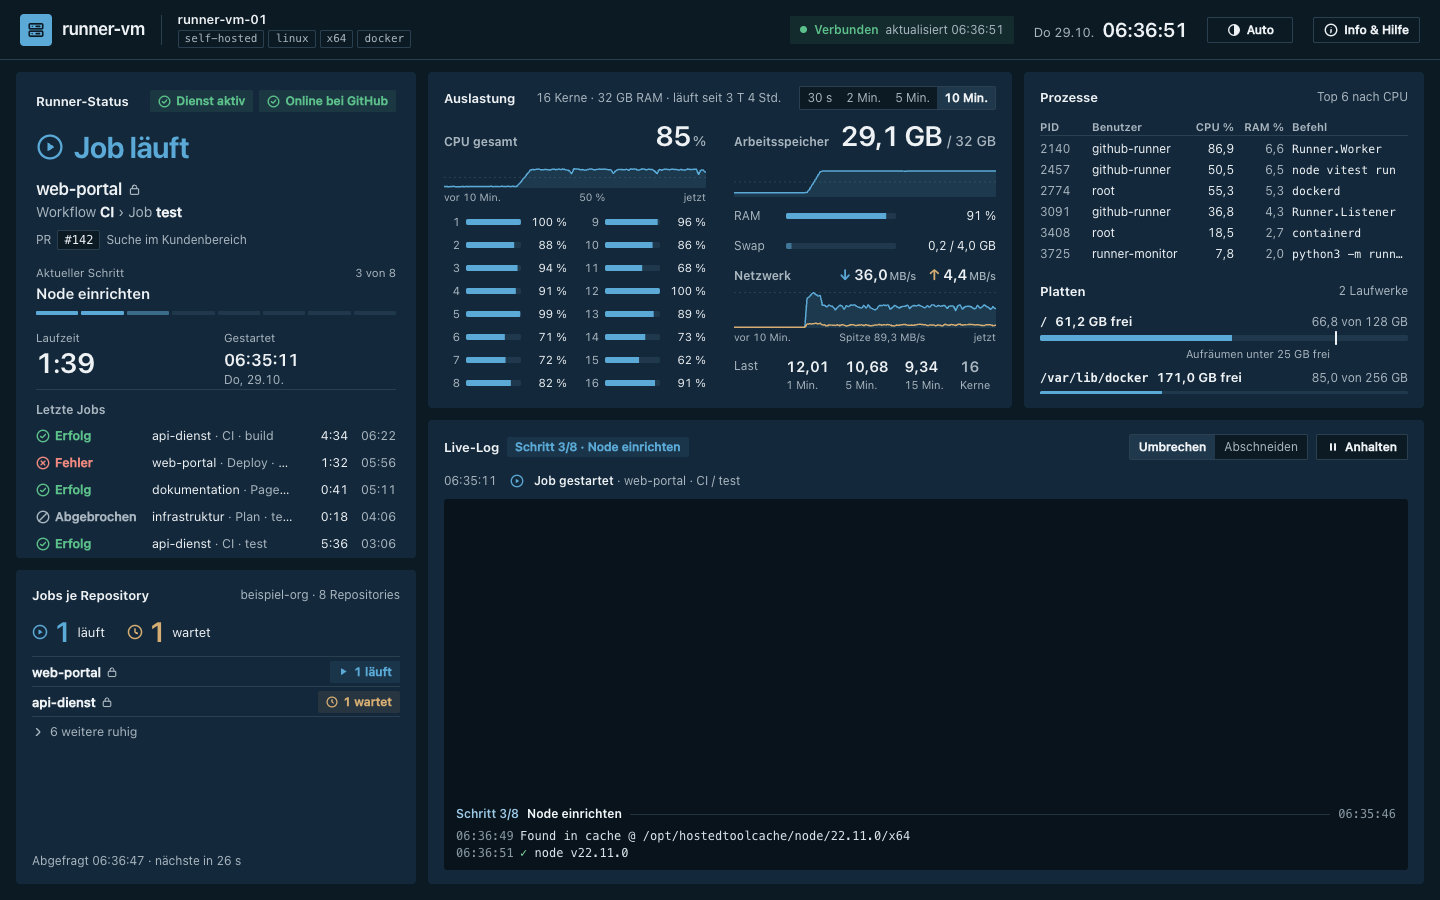
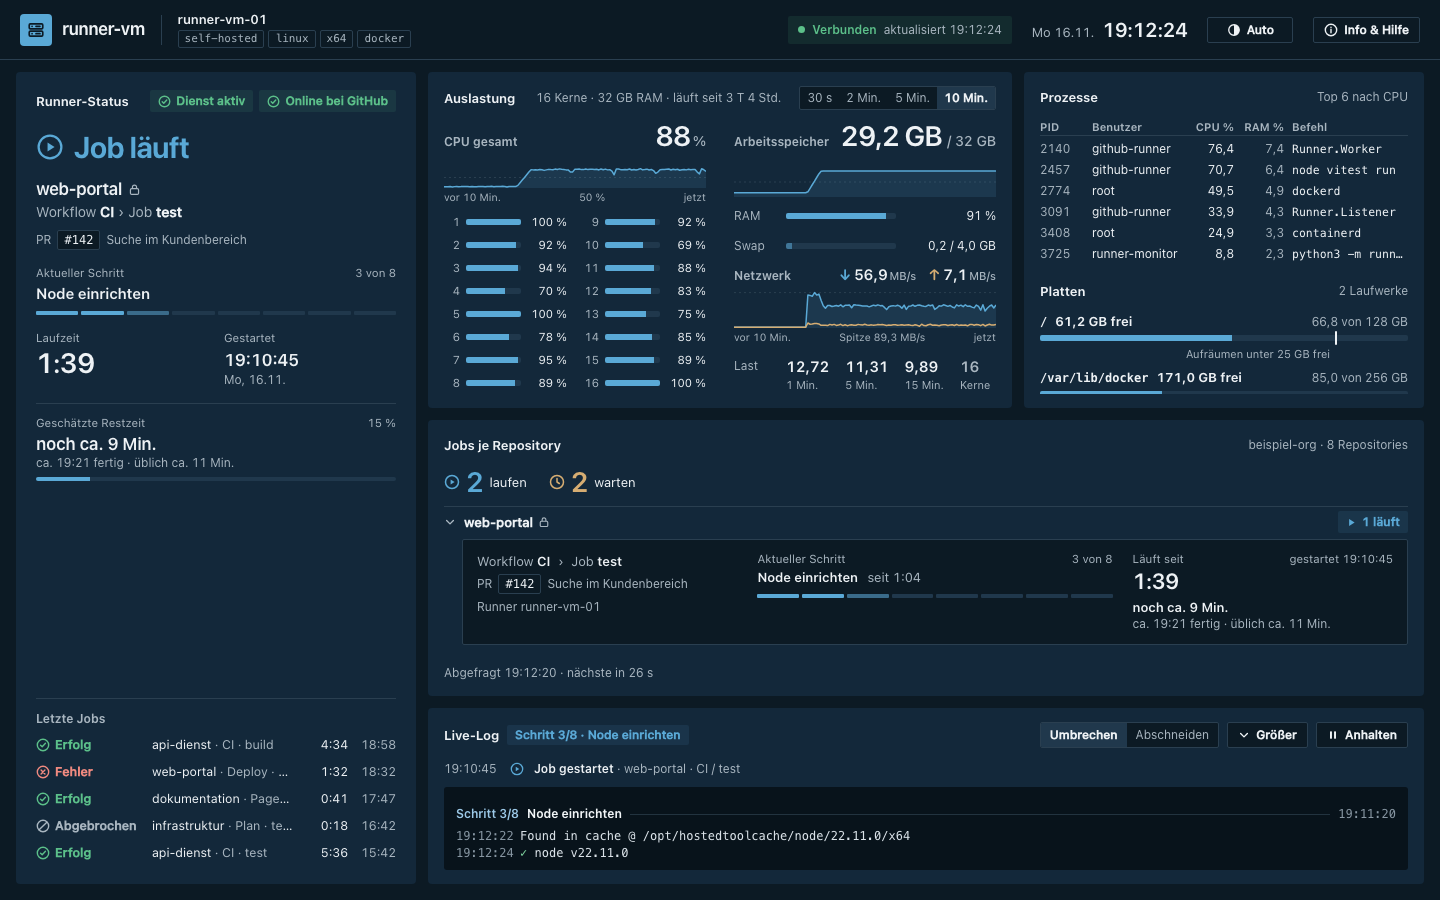
Handbuch: Bildschirmfotos 0.9.0
Alle Bilder im Layout 0.9.0 neu aufgenommen (werkzeuge/bilder.mjs, nur Demo-Daten); neu dashboard-jobs-laufend und dashboard-log-gross, in 02-dashboard.md verlinkt. Hinweis zum alten Layout aus der Release-Notiz entfernt.

diff --git a/entwickler-dashboard/daten.js b/entwickler-dashboard/daten.js
@@ -13,7 +13,7 @@
  *               Entscheidungen: "entschieden", "zurückgestellt", sonst offen.
  */
 window.RUNNER_MONITOR = {
-  stand: "16.11.2026 07:24",
+  stand: "16.11.2026 19:13",
 
   dienste: [
     { name: "Runner-Monitor lokal (Demo)", url: "http://127.0.0.1:8090/?demo", pruefen: "http://127.0.0.1:8090/api/health", gruppe: "Runner-Monitor" },
@@ -269,6 +269,7 @@ window.RUNNER_MONITOR = {
   ],
 
   verlauf: [
+    { datum: "16.11.2026 19:13", text: "Handbuch-Bildschirmfotos für 0.9.0 neu aufgenommen (node werkzeuge/bilder.mjs, nur Demo-Daten, Playwright nur lokal im Scratchpad): alle 21 Bilder im Layout 0.9.0, neu dashboard-jobs-laufend und dashboard-log-gross (in 02-dashboard.md verlinkt); Hinweis „Bilder zeigen noch das alte Layout“ aus der Release-Notiz entfernt." },
     { datum: "16.11.2026 07:24", text: "E-35 von Tobias entschieden (b) und auf release/0.9.0 umgesetzt: Nach dem Ende eines Forgejo-/Gitea-Jobs bleibt dessen Ausgabe im Live-Log stehen (Chip „Job beendet · Schritt n/m · Name“), bis ein neuer Job startet oder der Runner gewechselt wird; das Journal puffert in der Zeit weiter. Nur Browser (web/runner.js jobLogStand/jobLogEmpfang, dashboard.js), der Webdienst meldet das Ende schon als neuen leeren Stand. JS-Tests: Ende bleibt, neuer Job ersetzt, Runner-Wechsel führt aufs Journal, Hinweis führt aufs Journal. Doku FUNKTIONSWEISE, Handbuch 02, CHANGELOG, Release-Notiz, DECISIONS.md. Paket neu gebaut." },
     { datum: "16.11.2026 00:06", text: "Release 0.9.0 vorbereitet (Branch release/0.9.0 von develop mit 0.8.4, noch kein PR – CI kurz vor dem Veröffentlichen; Freigabe von Tobias grundsätzlich erteilt): Merge-Commits von #171 (laufende und wartende Jobs, Restzeit, kleineres Live-Log), #176 (Job-Log im Live-Log) und #177 (wackelige Tests). Konflikt forgejo.py: Organisations-Modus aus #171 übernommen, jobLogZiel aus #176 danach – nur aus den diesem Runner zugeordneten Jobs, nie aus Organisations-Jobs (neuer Test, Doku FUNKTIONSWEISE und S-JOBLOG-01); CHANGELOG und Verlauf zusammengeführt, dashboard.js (Log-Höhe und Job-Log-Chip) ohne Konflikt. VERSION, CHANGELOG [0.9.0] – 16.11.2026, Release-Notiz, Stand der Dokus, README-Versionstabelle. Offen: E-34 (Layout), E-35 (Live-Log beim Job-Ende), Handbuchbilder im alten Layout, Abnahme an einer echten VM mit laufendem Job." },
     { datum: "15.11.2026 23:44", text: "#176 Architekt-Review eingearbeitet (gleicher Branch): OSC/DCS/SOS/PM/APC samt Nutzlast, C1- und Bidi-Steuerzeichen und angeschnittene Farbfolgen am Zeilenende entfernt; joblog.json-Änderung an (Inode, mtime_ns, Größe) erkannt; Lebenszeichen der Datei im Verwaltungstakt (kein „veraltet“ nach 429); 404 aufs Log bei vorhandenem Job-Detail nur kurze Pause statt „nicht unterstützt“, Zähler je Schritt; neue Token-Datei hebt die Pause nach 401/403 auf; angehaltene Leser setzen weder Pause noch Hinweis; Sammler hält die Leser beim Beenden an. Entscheidung jetzt E-35 (E-34 = Layout aus #171)." },

diff --git a/docs/handbuch/02-dashboard.md b/docs/handbuch/02-dashboard.md
@@ -103,6 +103,8 @@ Was dabei vom Anbieter abhängt: **Forgejo und Gitea** liefern Schritte (Forgejo
 wartende Läufe, Schritte aber nur für den eigenen Job und keine Schätzung (sie würde das API-Kontingent belasten), **GitLab** nennt die laufenden Jobs des
 Runners ohne Schritte und Schätzung und keine wartenden Läufe. Was fehlt, bleibt leer oder steht als „nicht verfügbar“ da.
 
+![Zwei laufende Jobs (der zweite „länger als üblich“, auf einem anderen Runner), wartende Läufe](bilder/dashboard-jobs-laufend.png)
+
 Ohne Token zeigt die Karte, wie man eines einrichtet:
 
 ![Kein Token](bilder/dashboard-kein-token.png)
@@ -171,6 +173,8 @@ der Schwelle wird orange.
 - **Größer / Kleiner** (Knopf neben „Anhalten“): Das Live-Log ist standardmäßig klein (feste Höhe mit dem letzten Ereignis und etwa vier Zeilen Ausgabe), damit
   Runner-Status und Jobs Platz haben; „Größer“ gibt ihm den Rest der Fläche, die Jobs werden dafür kleiner. Die Wahl merkt der Browser
   (`runner-monitor.log-hoehe`).
+
+![Live-Log groß: Die Jobs je Repository werden kleiner und scrollen](bilder/dashboard-log-gross.png)
 - Ältere Ausgaben stehen im Runner (`_diag/pages`) und bei GitHub („Download log archive“).
 
 ## Sprache

diff --git a/CHANGELOG.md b/CHANGELOG.md
@@ -36,6 +36,7 @@ Format nach [Keep a Changelog](https://keepachangelog.com/de/1.1.0/), Versionen 
   älteren Servern bleibt das Live-Log beim Journal, Info › Verbindungen nennt den Grund („Job-Log“).
   Sicherheitsbericht S-JOBLOG-01. Das Job-Log zeigt nur Jobs, die diesem Runner zugeordnet sind – ist er nicht
   erkennbar, bleibt das Live-Log beim Journal, auch wenn „Letzte Jobs“ die Jobs der Organisation zeigt.
+- Handbuch (#171): alle Bildschirmfotos im Layout 0.9.0 neu aufgenommen (`node werkzeuge/bilder.mjs`, nur Demo-Daten); neu `dashboard-jobs-laufend` (laufende und wartende Jobs, Restzeit) und `dashboard-log-gross` (Live-Log „Größer“).
 
 ## [0.8.4] – 15.11.2026
 

diff --git a/docs/releases/v0.9.0.md b/docs/releases/v0.9.0.md
@@ -44,7 +44,6 @@ Restzeit erscheint nach ein bis zwei Runden (30 s), sobald der Monitor die Vergl
   festen Grenzen; Zeitüberschreitung oder 429 dabei kosten die Runde nichts.
 
 ## Bekannt
-- Die Bildschirmfotos im Handbuch zeigen noch das alte Layout (0.8).
 - Noch nicht an einer echten Runner-VM mit laufendem Job abgenommen (Restzeit, Warteschlange, Job-Log); das Format des
   Job-Logs ist an Forgejo 17 gemessen.
 - Gitea nur nach der Dokumentation (OpenAPI) umgesetzt, GitLab nach der offiziellen Dokumentation.
